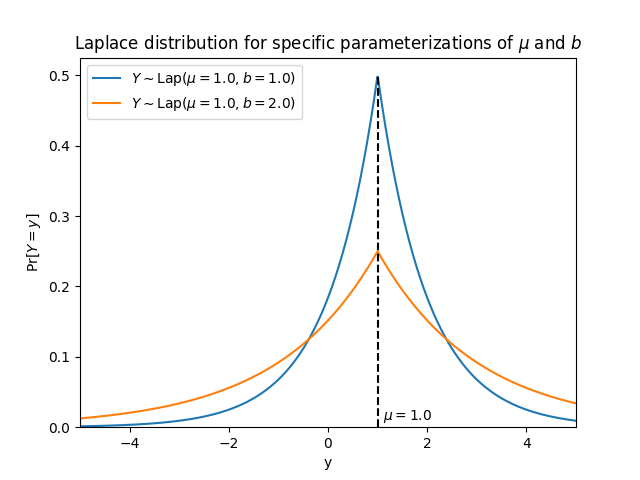
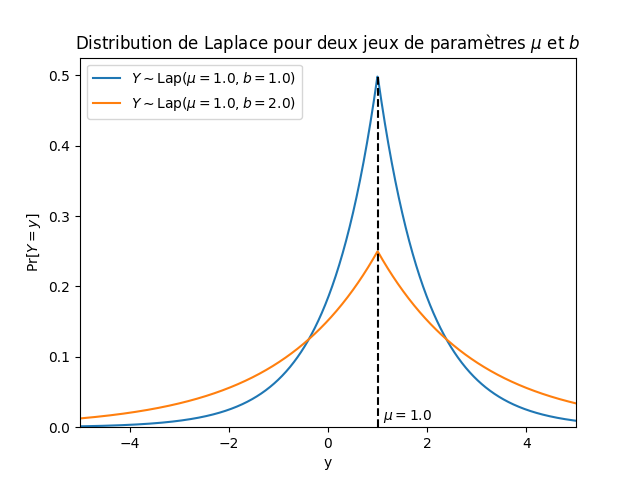
laplace fr

Changed region(s): [[0.0938, 0.0625, 0.9062, 0.125]]

diff --git a/python/laplace_distrib.py b/python/laplace_distrib.py
@@ -24,6 +24,6 @@ plt.xlim(*bounds)
 plt.ylabel(f"$\Pr[Y = y]$")
 plt.xlabel("y")
 plt.legend()
-plt.title("Laplace distribution for specific parameterizations of $\mu$ and $b$")
+plt.title("Distribution de Laplace pour deux jeux de paramètres $\mu$ et $b$")
 plt.savefig("./figures/laplace_distribution.png")
 plt.show()
